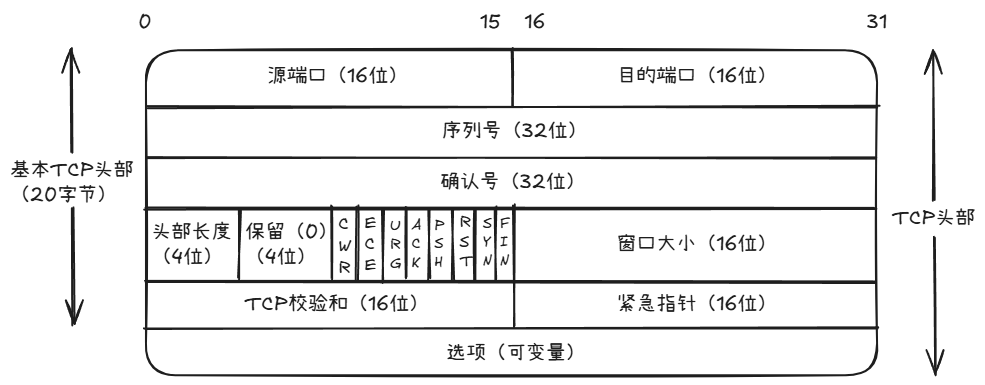
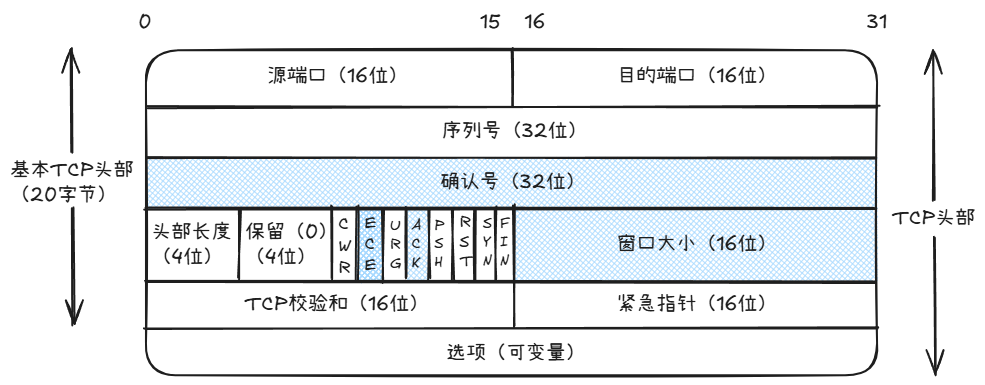
docs:add TCP/IP note

Changed region(s): [[0.1523, 0.4052, 0.9137, 0.7481]]

diff --git a/Excalidraw/TCP头部.md b/Excalidraw/TCP头部.md
@@ -80,146 +80,174 @@ TCP头部 ^4lAXHqK3
 %%
 ## Drawing
 ```compressed-json
[2 lines of base64/hex data omitted]
 
[2 lines of base64/hex data omitted]
 
[2 lines of base64/hex data omitted]
 
[2 lines of base64/hex data omitted]
 
[2 lines of base64/hex data omitted]
 
[2 lines of base64/hex data omitted]
 
[2 lines of base64/hex data omitted]
 
[2 lines of base64/hex data omitted]
 
[2 lines of base64/hex data omitted]
 
[2 lines of base64/hex data omitted]
 
[2 lines of base64/hex data omitted]
 
[2 lines of base64/hex data omitted]
 
[2 lines of base64/hex data omitted]
 
[2 lines of base64/hex data omitted]
 
[2 lines of base64/hex data omitted]
 
[2 lines of base64/hex data omitted]
 
[2 lines of base64/hex data omitted]
 
[2 lines of base64/hex data omitted]
 
[2 lines of base64/hex data omitted]
 
[2 lines of base64/hex data omitted]
 
[2 lines of base64/hex data omitted]
 
[2 lines of base64/hex data omitted]
 
[2 lines of base64/hex data omitted]
 
[2 lines of base64/hex data omitted]
 
[2 lines of base64/hex data omitted]
 
[2 lines of base64/hex data omitted]
 
[2 lines of base64/hex data omitted]
 
[2 lines of base64/hex data omitted]
 
[2 lines of base64/hex data omitted]
 
[2 lines of base64/hex data omitted]
 
[2 lines of base64/hex data omitted]
 
[2 lines of base64/hex data omitted]
 
[2 lines of base64/hex data omitted]
 
[2 lines of base64/hex data omitted]
 
[2 lines of base64/hex data omitted]
 
[2 lines of base64/hex data omitted]
 
[2 lines of base64/hex data omitted]
 
[2 lines of base64/hex data omitted]
 
[2 lines of base64/hex data omitted]
 
[2 lines of base64/hex data omitted]
 
[2 lines of base64/hex data omitted]
 
[2 lines of base64/hex data omitted]
 
[2 lines of base64/hex data omitted]
 
[2 lines of base64/hex data omitted]
 
[2 lines of base64/hex data omitted]
 
[2 lines of base64/hex data omitted]
 
[2 lines of base64/hex data omitted]
 
[2 lines of base64/hex data omitted]
 
[2 lines of base64/hex data omitted]
 
[2 lines of base64/hex data omitted]
 
[2 lines of base64/hex data omitted]
 
[2 lines of base64/hex data omitted]
 
[2 lines of base64/hex data omitted]
 
[2 lines of base64/hex data omitted]
 
[2 lines of base64/hex data omitted]
 
[2 lines of base64/hex data omitted]
 
[2 lines of base64/hex data omitted]
 
[2 lines of base64/hex data omitted]
 
[2 lines of base64/hex data omitted]
 
[2 lines of base64/hex data omitted]
 
[2 lines of base64/hex data omitted]
 
[2 lines of base64/hex data omitted]
 
[2 lines of base64/hex data omitted]
 
[2 lines of base64/hex data omitted]
 
[2 lines of base64/hex data omitted]
 
[2 lines of base64/hex data omitted]
 
[2 lines of base64/hex data omitted]
 
[2 lines of base64/hex data omitted]
 
[2 lines of base64/hex data omitted]
 
[2 lines of base64/hex data omitted]
 
[2 lines of base64/hex data omitted]
+
[1 lines of base64/hex data omitted]
+
[1 lines of base64/hex data omitted]
+
[1 lines of base64/hex data omitted]
+
[1 lines of base64/hex data omitted]
+
[1 lines of base64/hex data omitted]
+
[1 lines of base64/hex data omitted]
+
[1 lines of base64/hex data omitted]
+
[1 lines of base64/hex data omitted]
+
[1 lines of base64/hex data omitted]
+
[1 lines of base64/hex data omitted]
+
[1 lines of base64/hex data omitted]
+
[1 lines of base64/hex data omitted]
+
[1 lines of base64/hex data omitted]
+
+JDvPGzGQ1xy5zawOABaF9wMwE8LztILPABLCKfWCBZOF1LaggAA=
 ```
 %%

diff --git a/02-底层原理/01-TCP-IP/13-TCP连接管理.md b/02-底层原理/01-TCP-IP/13-TCP连接管理.md
@@ -107,3 +107,15 @@ Wireshark 很好用
 
 ### 13.2.5 连接建立超时
 
+
+
+
+
+## 13.5 TCP状态转换
+
+决定 TCP 应该做什么的规则其实是由 TCP 所属的状态决定的。当前的状态会在各种触发条件下发生改变，例如传输或接收到的报文段、计时器超时、应用程序的读写操作，以及来自其他层的信息。这些规则可以概括为 TCP 的状态转换图
+
+
+### 13.5.1 TCP状态转换图
+
+下图展示了 TCP 的状态转换图。图中的状态用椭圆表示，而状态之间的转换则用箭头表示。TCP 连接的每一端都可以在这些状态中进行转换。有些转换是由于接收到某个控制位字段置位的的报文段而引发的（例如，SYN，ACK，FIN）；而有些转换又会要求发送一些控制位字段置位的报文段。另外还有一些转换是由应用程序的动作或计时器超时引发的。上述各种情况都以文本注释的方式标记在转换图的相关箭头旁边。当初始化时，TCP 从 CLOSED 状态启动。通常根据是执行主动打开操作还是被动打开操作，TCP 将分别快速转换到 SYN_SENT 或 LISTEN 状态
